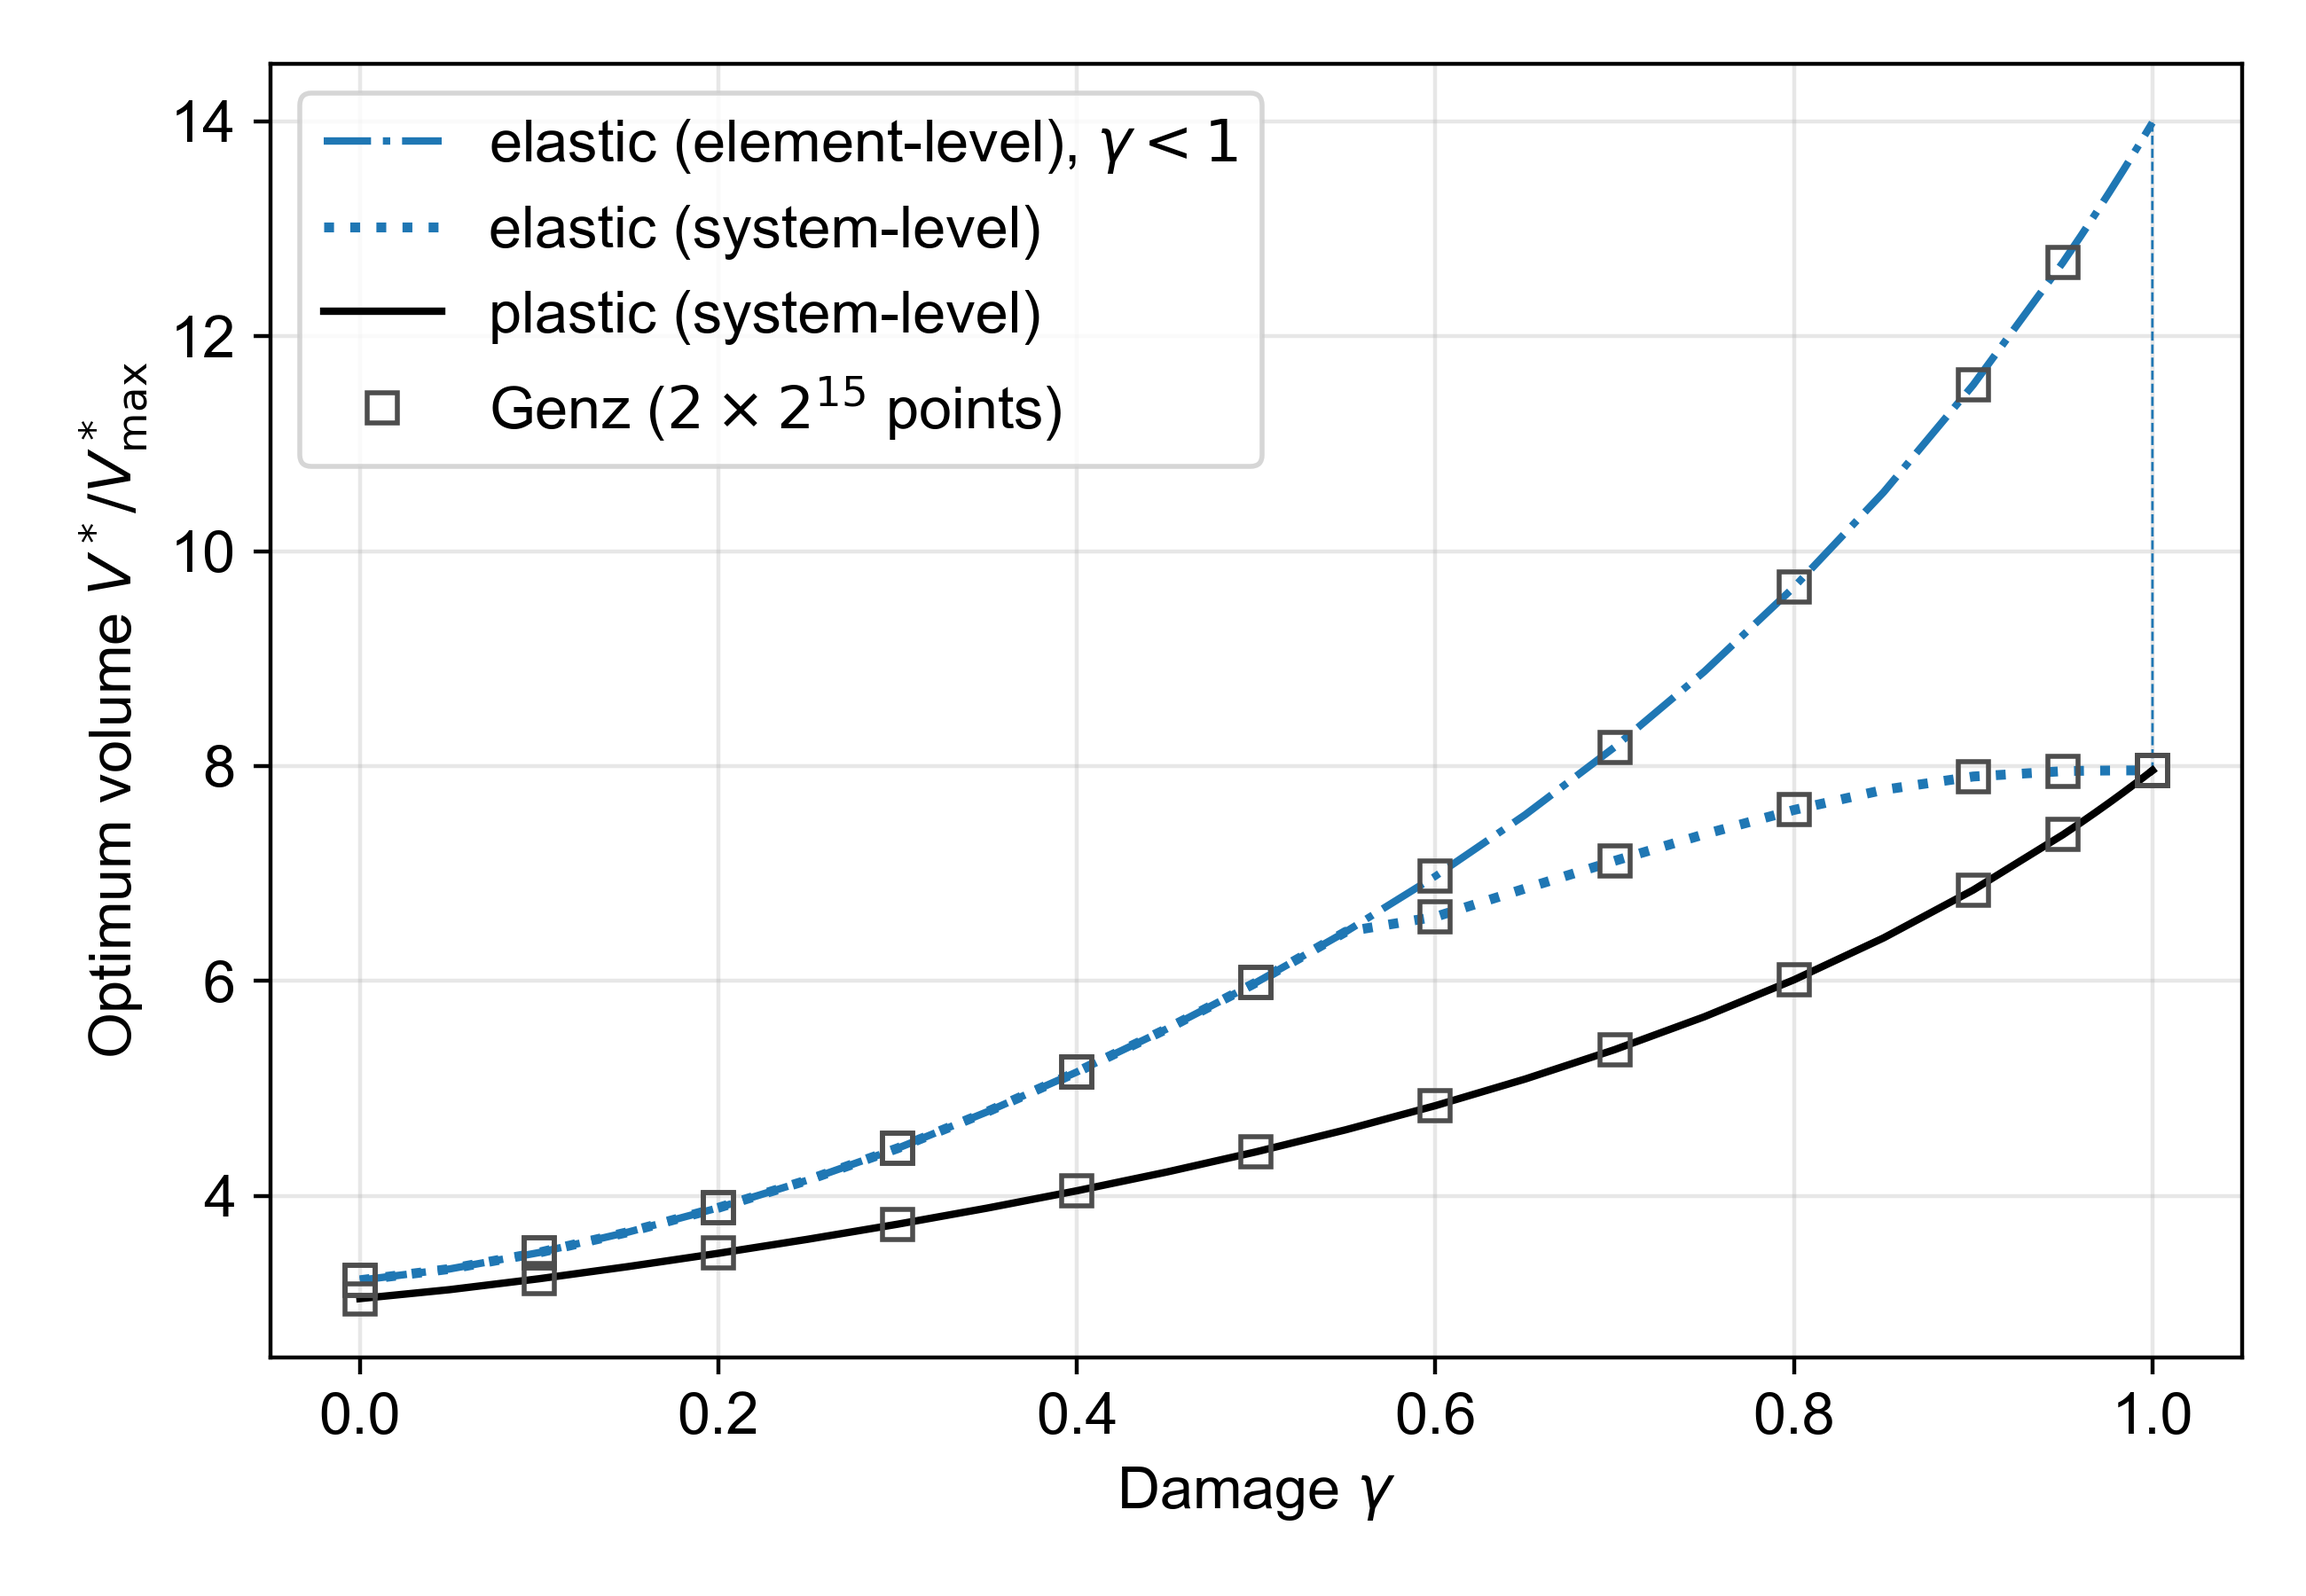
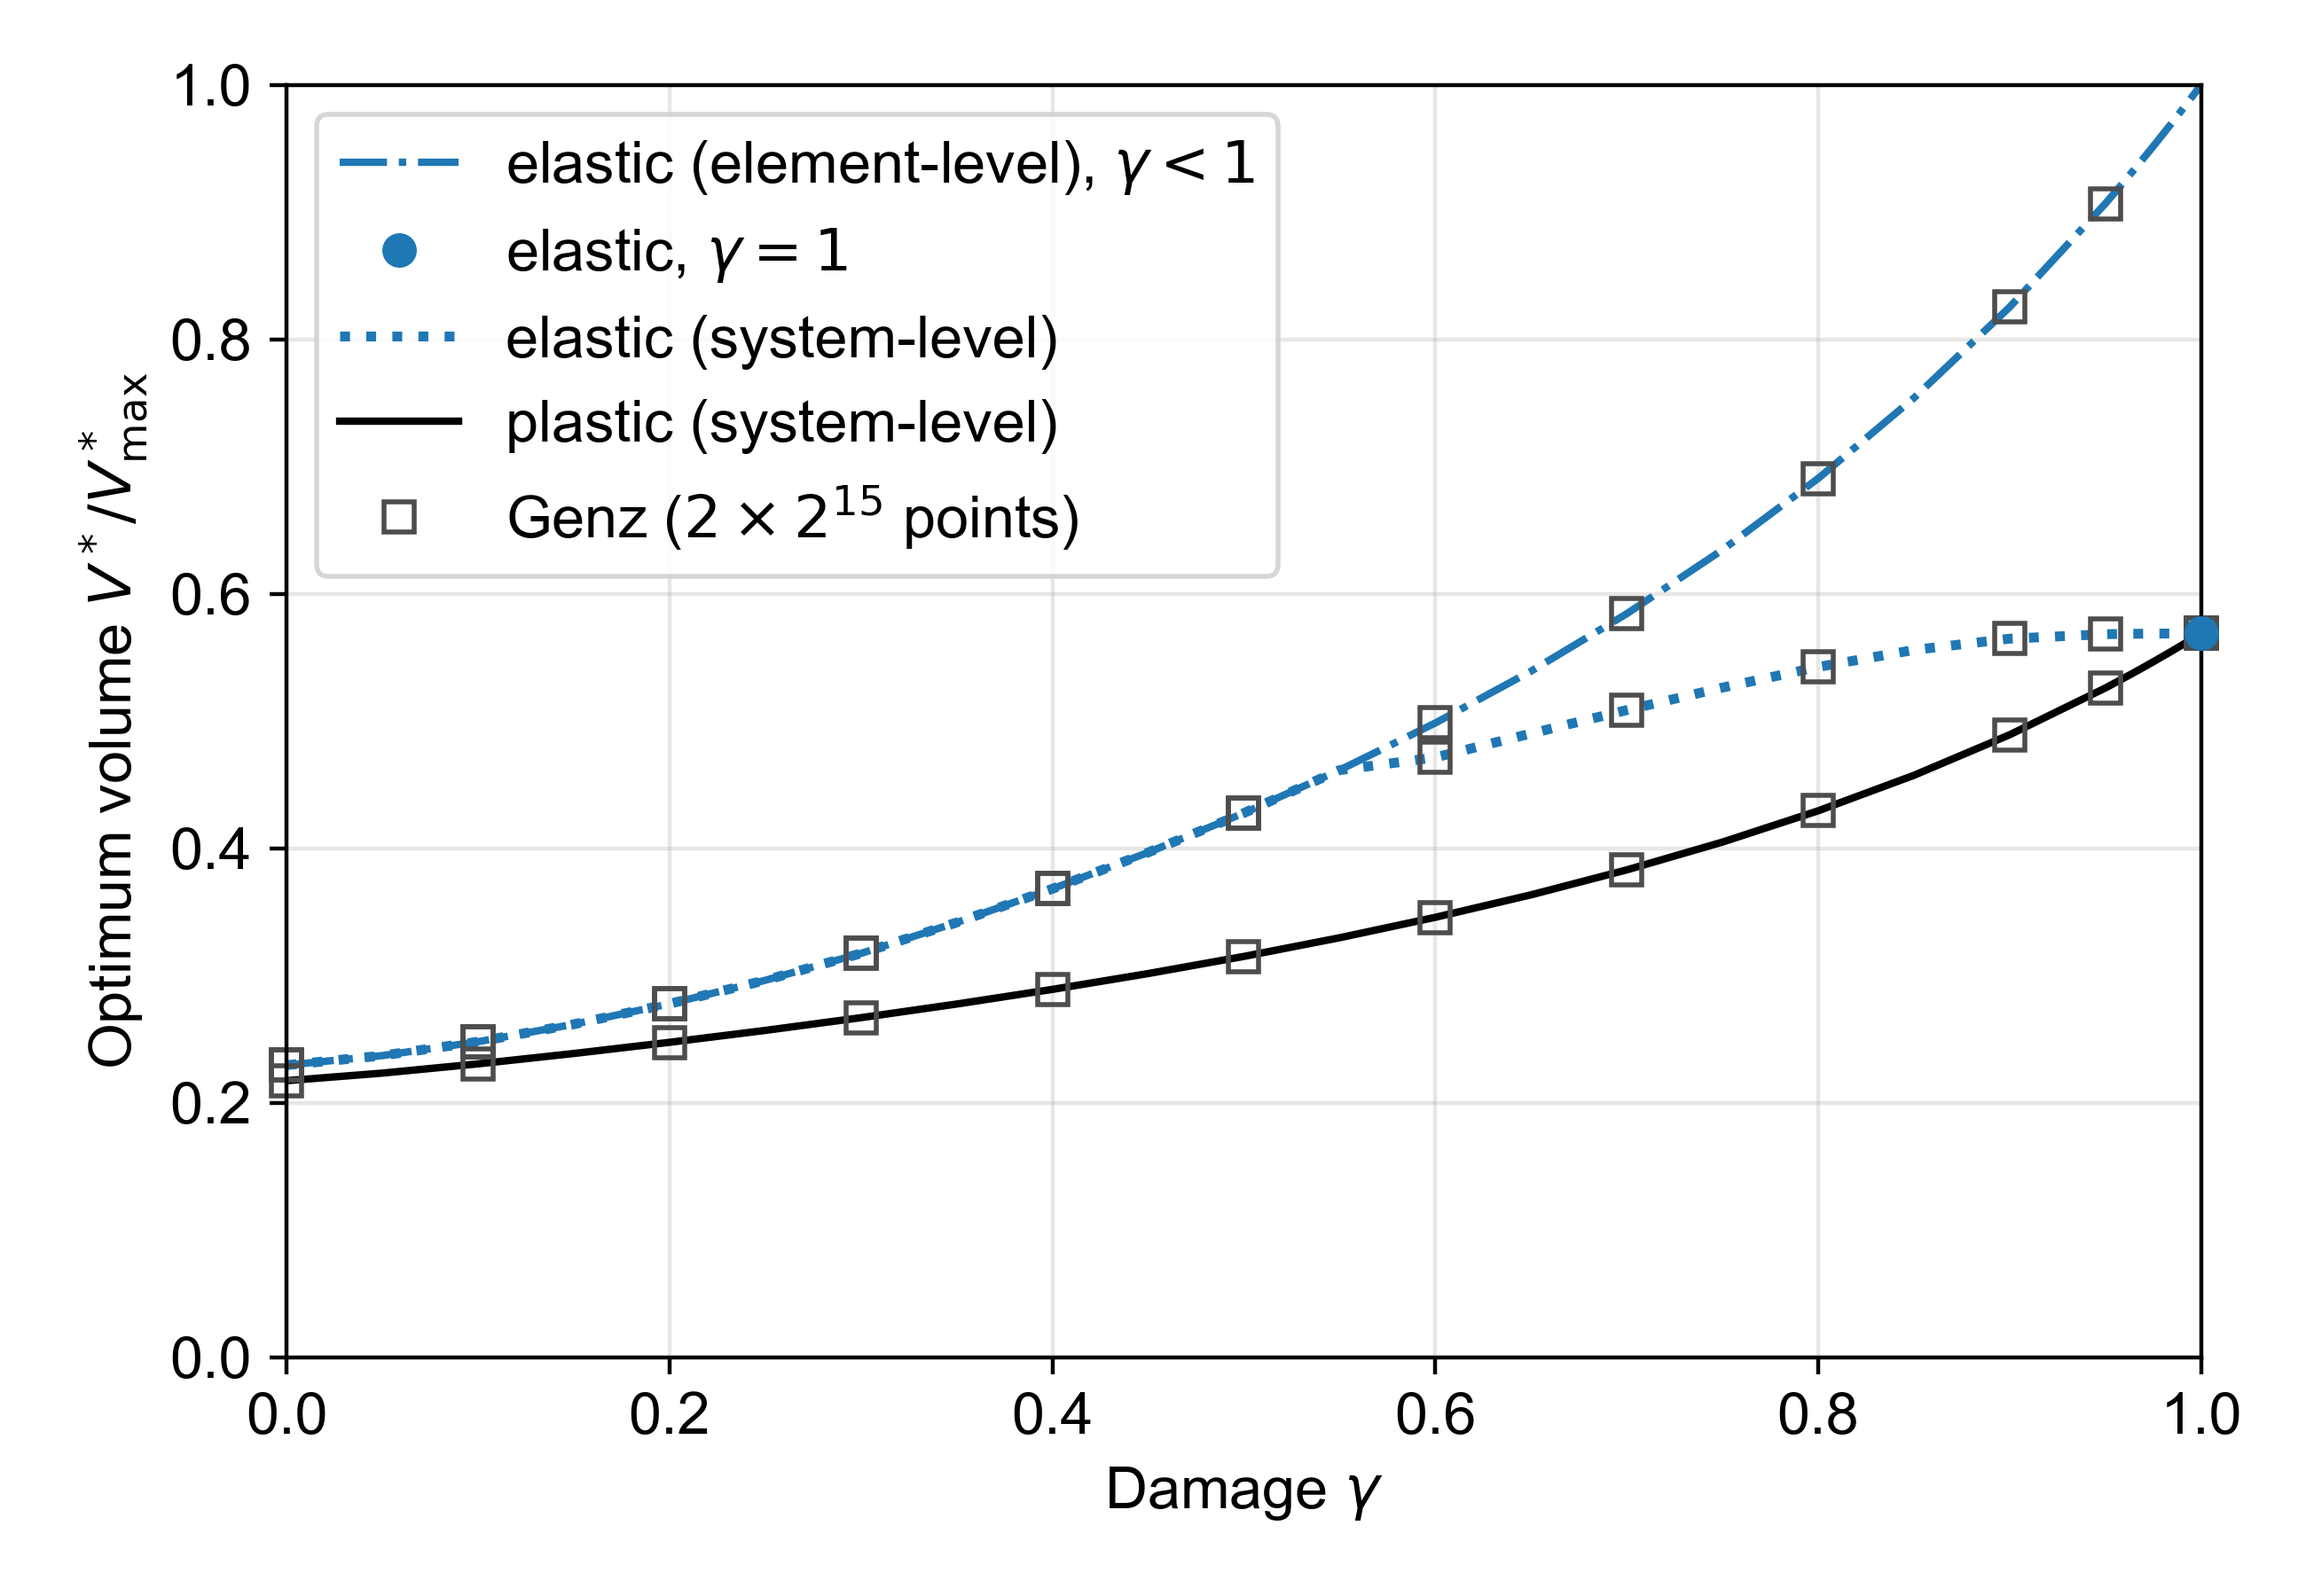
rerun results

diff --git a/sysrelopt/truss_rbdo_elastic_system.py b/sysrelopt/truss_rbdo_elastic_system.py
@@ -91,18 +91,23 @@ if __name__ == '__main__':
     print("relaxed  :", curves['relaxed'][0], curves['relaxed'][-1], vr1)
     print("plastic  :", curves['plastic'][0], curves['plastic'][-1])
 
+    from matplotlib.ticker import MaxNLocator
+    amax = max(ae.max(), ar.max(), ap.max(), np.max(xe1), np.max(xr1))
+    aticks = MaxNLocator(nbins=6, steps=[1, 2, 2.5, 5, 10]).tick_values(0, amax)
+
     for idx, lab, fname in [(0, r'Optimum area $a_1^*$', 'pfarea1_gamma_elastic_system.png'),
                             (1, r'Optimum area $a_2^*$', 'pfarea2_gamma_elastic_system.png')]:
         fig, ax = plt.subplots(figsize=(6.5, 4.5))
         ax.plot(gs, ae[:, idx], '-.', color='tab:blue',
                 label=r'elastic (element-level), $\gamma<1$')
-        ax.plot(1, xe1[idx], 'o', color='tab:blue', label=r'elastic, $\gamma=1$')
-        ax.plot([gs[-1], 1], [ae[-1, idx], xe1[idx]], '--', color='tab:blue', lw=.5)
+        ax.plot(1, xe1[idx], 'o', color='tab:blue', label=r'elastic, $\gamma=1$',
+                clip_on=False, zorder=3)
         ax.plot(gs, ar[:, idx], ':', color='tab:blue', lw=2,
                 label='elastic (system-level)')
-        ax.plot(1, xr1[idx], 's', color='tab:blue', ms=4)
+        ax.plot(1, xr1[idx], 's', color='tab:blue', ms=4, clip_on=False, zorder=3)
         ax.plot(gs, ap[:, idx], 'k-', label='plastic (system-level)')
-        ax.set_ylim(0, None)
+        ax.set_yticks(aticks); ax.set_ylim(0, aticks[-1])
+        ax.set_xlim(0, 1); ax.margins(0)
         ax.set_xlabel(r'Damage $\gamma$')
         ax.set_ylabel(lab)
         ax.legend(); ax.grid(alpha=.3); plt.tight_layout()
@@ -113,14 +118,14 @@ if __name__ == '__main__':
     fig, ax = plt.subplots(figsize=(6.5, 4.5))
     ax.plot(gs, curves['elastic']/vmax, '-.', color='tab:blue',
             label=r'elastic (element-level), $\gamma<1$')
-    ax.plot(1, ve1/vmax, 'o', color='tab:blue', label=r'elastic, $\gamma=1$')
-    ax.plot([gs[-1],1], [curves['elastic'][-1]/vmax, ve1/vmax], '--',
-            color='tab:blue', lw=.5)
+    ax.plot(1, ve1/vmax, 'o', color='tab:blue', label=r'elastic, $\gamma=1$',
+            clip_on=False, zorder=3)
     ax.plot(gs, curves['relaxed']/vmax, ':', color='tab:blue', lw=2,
             label='elastic (system-level)')
-    ax.plot(1, vr1/vmax, 's', color='tab:blue', ms=4)
+    ax.plot(1, vr1/vmax, 's', color='tab:blue', ms=4, clip_on=False, zorder=3)
     ax.plot(gs, curves['plastic']/vmax, 'k-', label='plastic (system-level)')
-    ax.set_ylim(0, 1.05)
+    ax.set_ylim(0, 1)
+    ax.set_xlim(0, 1); ax.margins(0)
     ax.set_xlabel(r'Damage $\gamma$')
     ax.set_ylabel(r'Optimum volume $V^*/V^*_{\max}$')
     # ax.set_title(r'$P_f$-constrained optimum vs damage ($\beta_{sys}\geq 3$)')

diff --git a/sysrelopt/truss_verification_genz.py b/sysrelopt/truss_verification_genz.py
@@ -197,21 +197,23 @@ if __name__ == '__main__':
     print(f"total: {time.time()-t0:.1f} s")
 
     # ---- plot ----
+    vmax = max(curves['elastic'].max(), ends['elastic'].fun)
     fig, ax = plt.subplots(figsize=(6.5, 4.5))
-    ax.plot(gs, curves['elastic'], '-.', color='tab:blue', 
+    ax.plot(gs, curves['elastic']/vmax, '-.', color='tab:blue',
             label=r'elastic (element-level), $\gamma<1$')
-    ax.plot([gs[-1], 1], [curves['elastic'][-1], ends['elastic'].fun], '--',
-            color='tab:blue', lw=.5)
-    ax.plot(gs, curves['relaxed'], ':', color='tab:blue', lw=2,
+    ax.plot(1, ends['elastic'].fun/vmax, 'o', color='tab:blue', clip_on=False, zorder=3,
+            label=r'elastic, $\gamma=1$')
+    ax.plot(gs, curves['relaxed']/vmax, ':', color='tab:blue', lw=2,
             label='elastic (system-level)')
-    ax.plot([gs[-1], 1], [curves['relaxed'][-1], ends['relaxed'].fun], ':',
+    ax.plot([gs[-1], 1], [curves['relaxed'][-1]/vmax, ends['relaxed'].fun/vmax], ':',
             color='tab:blue', lw=2)
-    ax.plot(gs, curves['plastic'], 'k-', label='plastic (system-level)')
-    ax.plot([gs[-1], 1], [curves['plastic'][-1], ends['plastic'].fun], 'k-')
+    ax.plot(gs, curves['plastic']/vmax, 'k-', label='plastic (system-level)')
+    ax.plot([gs[-1], 1], [curves['plastic'][-1]/vmax, ends['plastic'].fun/vmax], 'k-')
     lab = r'Genz ($%d \times 2^{%d}$ points)' % (R_OPT, K_OPT)
     for kind, mk in [('elastic', 's'), ('relaxed', 's'), ('plastic', 's')]:
-        ax.plot(gchk, marks[kind], mk, mfc='none', mec='0.3', ms=6, ls='none',
-                label=lab if kind == 'elastic' else None)
+        ax.plot(gchk, marks[kind]/vmax, mk, mfc='none', mec='0.3', ms=6, ls='none',
+                clip_on=False, label=lab if kind == 'elastic' else None)
+    ax.set_xlim(0, 1); ax.set_ylim(0, 1); ax.margins(0)
     ax.set_xlabel(r'Damage $\gamma$')
     ax.set_ylabel(r'Optimum volume $V^*/V^*_{\max}$')
     ax.legend(); ax.grid(alpha=.3); plt.tight_layout()

diff --git a/sysrelopt/truss_rbdo_bounds.py b/sysrelopt/truss_rbdo_bounds.py
@@ -79,8 +79,8 @@ C_PL = np.array([[np.sqrt(2), 1.0, 0.0],
                  [1/np.sqrt(2), 0.0, 1/np.sqrt(2)]])
 
 def comps_p(a3, gv, cY=.1, cF=.1): 
-    R = (1 - gv) * np.maximum(a3, 1e-6)
-    b, al = [], []
+    R = (1 - gv) * np.maximum(a3, 1e-6) 
+    b, al = [], [] 
     for j in range(3):  # one mechanism per row of C_PL
         tj = C_PL[j] * R  # t_ji = R_i |n_i.d_j|  (scaled)
         sM = np.hypot(cY * np.linalg.norm(tj), cF)  # D[M_j]

diff --git a/sysrelopt/truss_rbdo_genz_torch.py b/sysrelopt/truss_rbdo_genz_torch.py
@@ -71,7 +71,7 @@ def comps_p(a3, gv, cY=.1, cF=.1):
 
 # ---------- system beta: multinormal integral + autodiff ----------
 # safe = all margins > 0 = {W <= beta}, W ~ N(0, rho), so pf = 1 - Phi_m
-def beta_sys_torch(a3, gv, cY=.1, cF=.1):
+def beta_sys_torch(a3, gv, cY=.2, cF=.0):
     b, rho = comps_p(a3, gv, cY, cF)
     pf = genz_sf(b, rho)
     pc = torch.clamp(pf, 1e-300, 1 - 1e-16)
